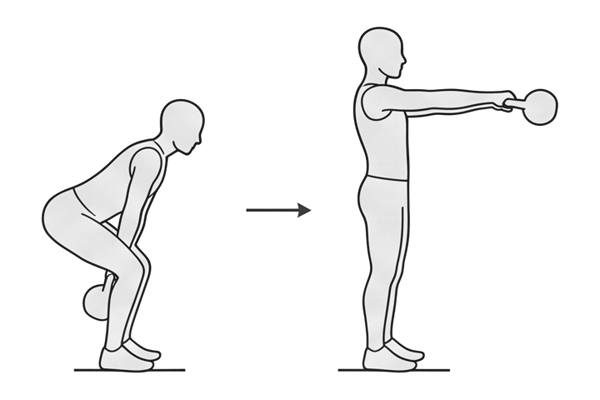
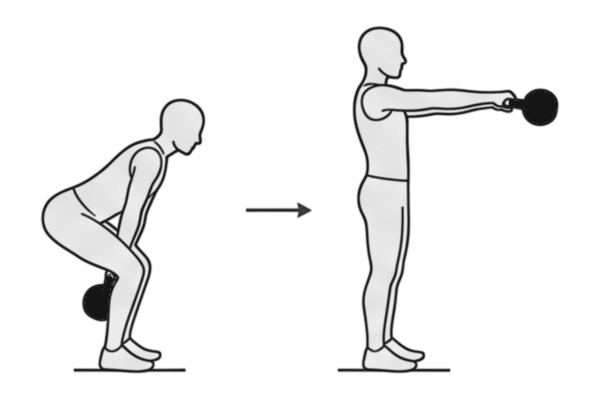
Dibujos con grosor de línea uniforme y kettlebells negras; título sin solaparse
- tools/ink.js engrosa o adelgaza las líneas de cada dibujo (con precisión de subpíxel) para que,
  una vez escalados al tamaño común de persona, todos muestren el mismo grosor.
- Todas las kettlebells se rellenan de negro; el agujero del asa queda vacío.
- tools/figures.json guarda el tamaño de cuerpo de cada dibujo que usan las páginas y el script.
- Portada: la g de «12 kg» ya no se corta ni roza el texto de debajo.

diff --git a/tools/ink.js b/tools/ink.js
@@ -1,5 +1,7 @@
 // Turns the exercise drawings (light lines on a navy ground, RGB PNG) into ink on a transparent ground,
 // so they sit on any background without blend tricks. Usage: node tools/ink.js images images/ink
+// With tools/figures.json beside it, each drawing's lines are also thickened or thinned so that, once the pages
+// scale every drawing to one body size (REF / body size), all lines show the same weight (LINE px at REF).
 const fs = require("fs");
 const path = require("path");
 const zlib = require("zlib");
@@ -67,10 +69,150 @@ function ink({ width, height, px }) {
   return out;
 }
 
+// ---- kettlebells ----
+// A kettlebell's body is a closed, round area of faint fill (or of solid ink when the drawing already filled it)
+// that is not joined to the figure's body: a head, by contrast, runs into the torso through the neck.
+function kettlebells(rgba, w, h) {
+  const al = (p) => rgba[p * 4 + 3];
+  const inner = (p) => al(p) > 8 && al(p) <= 140;      // faint body fill, between the lines
+  const lab = new Int32Array(w * h).fill(-1), found = [];
+  for (let s = 0; s < w * h; s++) {
+    if (!inner(s) || lab[s] >= 0) continue;
+    const id = found.length, stack = [s], px = [];
+    lab[s] = id;
+    let x0 = w, y0 = h, x1 = 0, y1 = 0;
+    while (stack.length) {
+      const p = stack.pop(), x = p % w, y = (p / w) | 0;
+      px.push(p); if (x < x0) x0 = x; if (x > x1) x1 = x; if (y < y0) y0 = y; if (y > y1) y1 = y;
+      for (const q of [p - 1, p + 1, p - w, p + w]) if (q >= 0 && q < w * h && Math.abs((q % w) - x) <= 1 && inner(q) && lab[q] < 0) { lab[q] = id; stack.push(q); }
+    }
+    const bw = x1 - x0 + 1, bh = y1 - y0 + 1, d = Math.max(bw, bh);
+    const round = px.length / (Math.PI * d * d / 4), aspect = Math.min(bw, bh) / d;
+    found.push({ px, x: (x0 + x1) / 2, y: (y0 + y1) / 2, d, round, aspect });
+  }
+  const balls = found.filter((c) => c.d >= 14 && c.d <= 60 && c.round > 0.62 && c.aspect > 0.72);
+  // the handle: a small pocket of empty ground fully enclosed by ink, right next to the ball
+  const empty = (p) => al(p) <= 8, seen = new Uint8Array(w * h), holes = [];
+  for (let s = 0; s < w * h; s++) {
+    if (!empty(s) || seen[s]) continue;
+    const stack = [s]; seen[s] = 1; let n = 0, sx = 0, sy = 0, edge = false;
+    while (stack.length) {
+      const p = stack.pop(), x = p % w, y = (p / w) | 0;
+      n++; sx += x; sy += y; if (x === 0 || y === 0 || x === w - 1 || y === h - 1) edge = true;
+      for (const q of [p - 1, p + 1, p - w, p + w]) if (q >= 0 && q < w * h && Math.abs((q % w) - x) <= 1 && empty(q) && !seen[q]) { seen[q] = 1; stack.push(q); }
+    }
+    if (!edge && n >= 15 && n <= 500) holes.push({ x: sx / n, y: sy / n });
+  }
+  return balls.filter((c) => holes.some((o) => Math.hypot(o.x - c.x, o.y - c.y) < c.d * 0.95));
+}
+
+// A point inside each kettlebell drawn as an outline only (the others are already solid). The ball is filled solid
+// ink from there, out to its own outline, so every kettlebell on the site reads black.
+const KB = {
+  "clean-press": [[178, 133], [355, 52]], "kb-halo": [[122, 128]], "suitcase-carry": [[143, 245], [352, 248]],
+  "russian-twist": [[103, 220], [380, 272]], "renegade-row": [[392, 165], [305, 283]], "floor-press": [[183, 213], [478, 110]],
+  "kb-row": [[207, 276], [383, 185]], "kb-swing": [[92, 300], [538, 105]], "single-leg-deadlift": [[83, 247], [490, 325]]
+};
+function fillKettlebells(rgba, w, h, seeds) {
+  const al = (p) => rgba[p * 4 + 3];
+  for (const [sx, sy] of seeds) {
+    let start = -1;   // nearest faint pixel to the given point
+    for (let r = 0; r <= 8 && start < 0; r++) for (let dy = -r; dy <= r && start < 0; dy++) for (let dx = -r; dx <= r; dx++) {
+      const p = (sy + dy) * w + sx + dx; if (al(p) <= 140) { start = p; break; }
+    }
+    if (start < 0) continue;
+    const seen = new Uint8Array(w * h), stack = [start]; seen[start] = 1;
+    while (stack.length) {
+      const p = stack.pop(), x = p % w, y = (p / w) | 0;
+      rgba[p * 4 + 3] = 255;
+      for (const q of [p - 1, p + 1, p - w, p + w]) {
+        const qx = q % w, qy = (q / w) | 0;
+        if (q < 0 || q >= w * h || Math.abs(qx - x) > 1 || seen[q] || al(q) > 140) continue;
+        if (Math.hypot(qx - sx, qy - sy) > 30) continue;   // never leak past the ball
+        seen[q] = 1; stack.push(q);
+      }
+    }
+  }
+  return rgba;
+}
+
+// ---- line weight ----
+const REF = 270, LINE = 2.8;   // body size the pages scale to, and the line width wanted there
+
+// mean width of the lines: horizontal and vertical runs of solid ink shorter than 14 px
+function lineWidth(rgba, w, h) {
+  const m = (p) => rgba[p * 4 + 3] > 140;
+  let sum = 0, n = 0;
+  const add = (r) => { if (r > 0 && r < 14) { sum += r; n++; } };
+  for (let y = 0; y < h; y += 2) { let r = 0; for (let x = 0; x < w; x++) { if (m(y * w + x)) r++; else { add(r); r = 0; } } }
+  for (let x = 0; x < w; x += 2) { let r = 0; for (let y = 0; y < h; y++) { if (m(y * w + x)) r++; else { add(r); r = 0; } } }
+  return sum / n;
+}
+
+// grow (d > 0) or shrink (d < 0) the ink by |d| px per side, with sub-pixel precision: work at 8× resolution,
+// take the running max (or min) over a square window in two passes, then average back down
+const S = 8;
+function upsample(rgba, w, h) {           // bilinear up-sampling of the alpha channel, done once per drawing
+  const W = w * S, H = h * S, a = new Float32Array(W * H);
+  for (let y = 0; y < H; y++) {
+    const sy = Math.min(h - 1, Math.max(0, (y + 0.5) / S - 0.5)), y0 = Math.floor(sy), y1 = Math.min(h - 1, y0 + 1), fy = sy - y0;
+    for (let x = 0; x < W; x++) {
+      const sx = Math.min(w - 1, Math.max(0, (x + 0.5) / S - 0.5)), x0 = Math.floor(sx), x1 = Math.min(w - 1, x0 + 1), fx = sx - x0;
+      const a00 = rgba[(y0 * w + x0) * 4 + 3], a10 = rgba[(y0 * w + x1) * 4 + 3], a01 = rgba[(y1 * w + x0) * 4 + 3], a11 = rgba[(y1 * w + x1) * 4 + 3];
+      a[y * W + x] = (a00 * (1 - fx) + a10 * fx) * (1 - fy) + (a01 * (1 - fx) + a11 * fx) * fy;
+    }
+  }
+  return a;
+}
+// running max/min over a window of 2R+1 along one line (van Herk / Gil-Werman: cost does not grow with R)
+function runLine(src, dst, n, start, step, R, grow, g, hb) {
+  const k = 2 * R + 1, pad = n + 2 * R, fill = grow ? -Infinity : Infinity;
+  const at = (i) => { const j = i - R; return j < 0 || j >= n ? fill : src[start + j * step]; };
+  for (let b = 0; b < pad; b += k) {
+    const e = Math.min(b + k, pad);
+    g[b] = at(b); for (let i = b + 1; i < e; i++) { const v = at(i); g[i] = grow ? (v > g[i - 1] ? v : g[i - 1]) : (v < g[i - 1] ? v : g[i - 1]); }
+    hb[e - 1] = at(e - 1); for (let i = e - 2; i >= b; i--) { const v = at(i); hb[i] = grow ? (v > hb[i + 1] ? v : hb[i + 1]) : (v < hb[i + 1] ? v : hb[i + 1]); }
+  }
+  for (let i = 0; i < n; i++) { const l = hb[i], r = g[i + 2 * R]; dst[start + i * step] = grow ? (l > r ? l : r) : (l < r ? l : r); }
+}
+function reweigh(rgba, w, h, d, up) {
+  const R = Math.round(Math.abs(d) * S);
+  if (!R) return rgba;
+  const W = w * S, H = h * S, grow = d > 0, tmp = new Float32Array(W * H), a = new Float32Array(W * H);
+  const g = new Float32Array(Math.max(W, H) + 2 * R + 1), hb = new Float32Array(Math.max(W, H) + 2 * R + 1);
+  for (let y = 0; y < H; y++) runLine(up, tmp, W, y * W, 1, R, grow, g, hb);
+  for (let x = 0; x < W; x++) runLine(tmp, a, H, x, W, R, grow, g, hb);
+  const out = Buffer.from(rgba);
+  for (let y = 0; y < h; y++) for (let x = 0; x < w; x++) {
+    let s = 0; for (let j = 0; j < S; j++) for (let i = 0; i < S; i++) s += a[(y * S + j) * W + x * S + i];
+    out[(y * w + x) * 4 + 3] = Math.round(s / (S * S));
+  }
+  return out;
+}
+
 const [srcDir, outDir] = process.argv.slice(2);
+const figFile = path.join(__dirname, "figures.json");
+const bodies = fs.existsSync(figFile) ? JSON.parse(fs.readFileSync(figFile, "utf8")) : {};
 fs.mkdirSync(outDir, { recursive: true });
 for (const f of fs.readdirSync(srcDir).filter((f) => f.endsWith(".png"))) {
   const img = readPng(path.join(srcDir, f));
-  writePng(path.join(outDir, f), img.width, img.height, ink(img));
-  console.log(f);
+  let rgba = ink(img);
+  if (KB[f.slice(0, -4)]) rgba = fillKettlebells(rgba, img.width, img.height, KB[f.slice(0, -4)]);
+  const body = bodies[f.slice(0, -4)];
+  let note = "";
+  if (body) {
+    // the measured width does not grow linearly with the reweighing, so search for the amount that hits the target
+    const have = lineWidth(rgba, img.width, img.height), want = LINE * body / REF;
+    let lo = -1.5, hi = 1.5, best = rgba, bestErr = Math.abs(have - want);
+    const up = upsample(rgba, img.width, img.height);
+    for (let k = 0; k < 7; k++) {
+      const d = (lo + hi) / 2, cand = reweigh(rgba, img.width, img.height, d, up), got = lineWidth(cand, img.width, img.height);
+      if (Math.abs(got - want) < bestErr) { best = cand; bestErr = Math.abs(got - want); }
+      if (got < want) lo = d; else hi = d;
+    }
+    rgba = best;
+    note = ` line ${have.toFixed(2)} → ${lineWidth(rgba, img.width, img.height).toFixed(2)} (want ${want.toFixed(2)})`;
+  }
+  writePng(path.join(outDir, f), img.width, img.height, rgba);
+  console.log(f + note);
 }

diff --git a/index.html b/index.html
@@ -64,7 +64,7 @@
 
   /* hero */
   .hero{ padding:clamp(24px,4vw,56px) var(--m) 0; display:grid; grid-template-columns:5fr 7fr; gap:var(--gap); align-items:end; min-height:calc(100svh - 72px); padding-bottom:clamp(32px,5vw,64px); }
-  .hero h1{ font-size:var(--s-display); line-height:0.86; letter-spacing:-0.035em; }
+  .hero h1{ font-size:var(--s-display); line-height:0.86; letter-spacing:-0.035em; padding-bottom:0.16em; }
   .hero .lead{ margin-top:28px; max-width:22ch; }
   .hero .acts{ display:flex; flex-wrap:wrap; gap:12px; margin-top:32px; }
   .hero .today{ margin-top:28px; font-size:var(--s-body); }
@@ -204,7 +204,8 @@
   /* motion */
   .js .rv{ opacity:0; transform:translateY(24px); transition:opacity .7s var(--ease), transform .7s var(--ease); transition-delay:var(--d,0ms); }
   .js .rv.in{ opacity:1; transform:none; }
-  .js .hero h1 .ln{ display:block; overflow:hidden; padding-bottom:.06em; }
+  /* the mask leaves room for descenders (the g of "kg") without moving the lines */
+  .js .hero h1 .ln{ display:block; overflow:hidden; padding-bottom:.28em; margin-bottom:-.28em; }
   .js .hero h1 .ln > span{ display:block; transform:translateY(105%); animation:rise .9s var(--ease) forwards; }
   .js .hero h1 .ln:nth-child(2) > span{ animation-delay:.11s; }
   @keyframes rise{ to{ transform:none; } }
